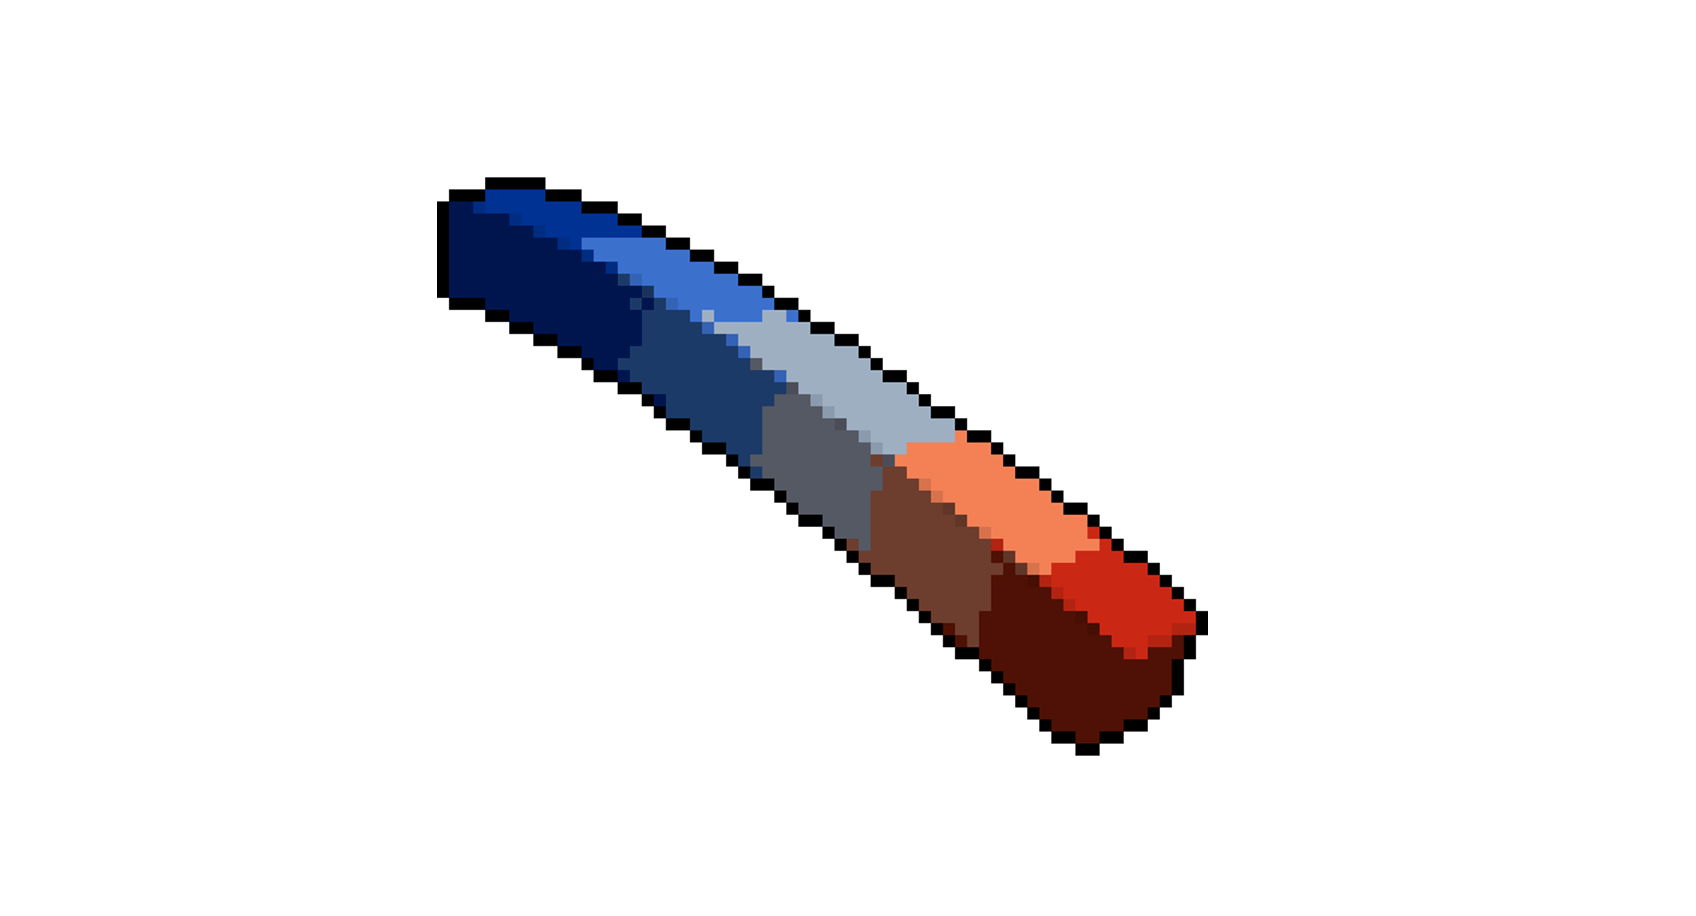
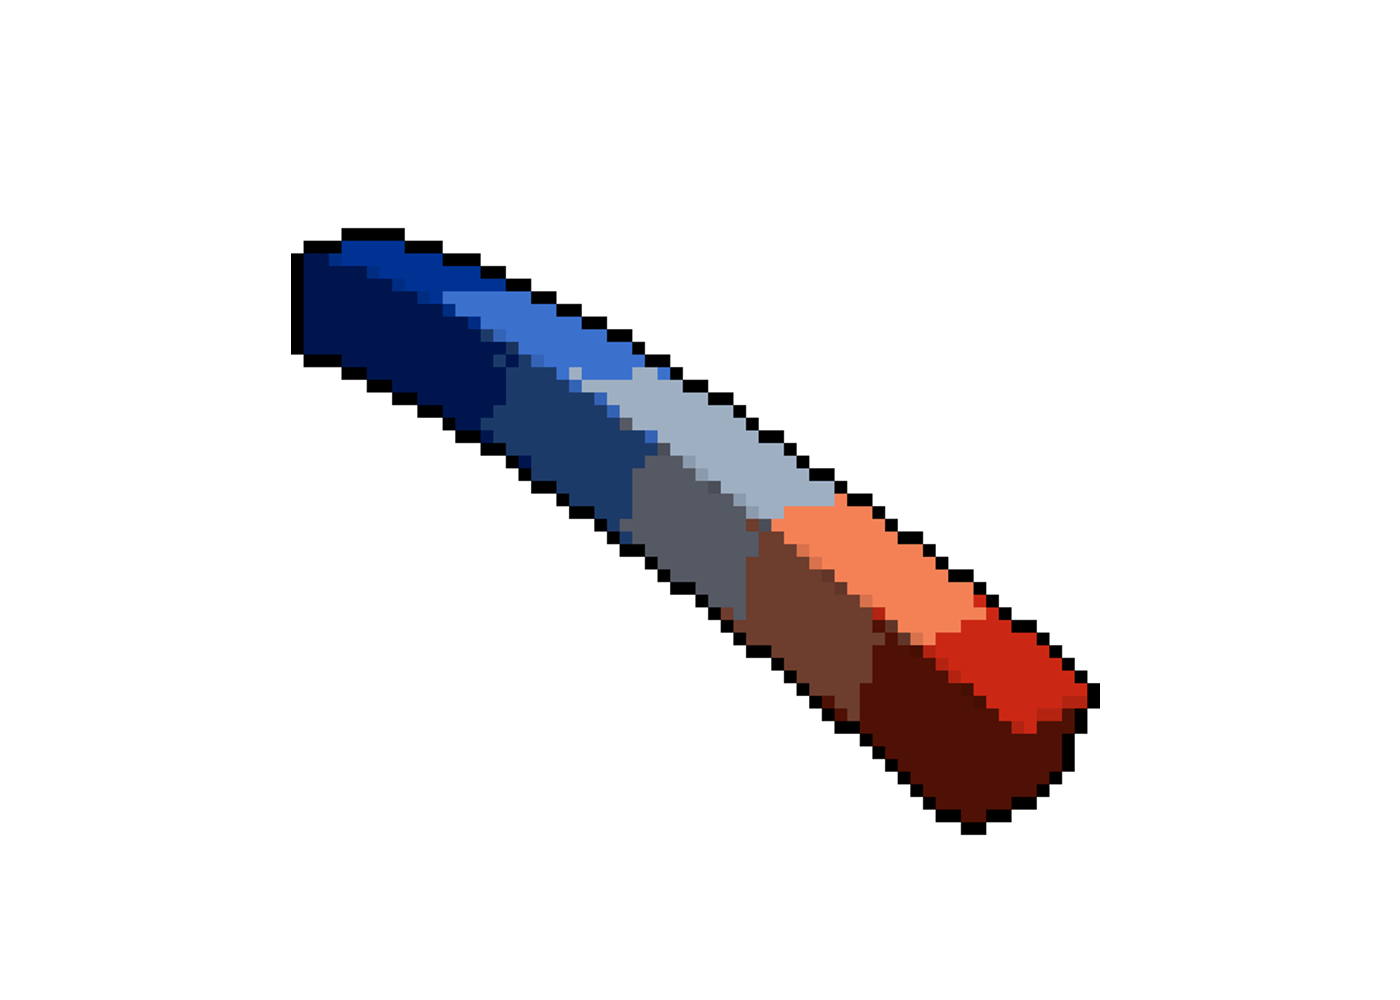
update proj

Changed region(s): [[0.1843, 0.1834, 0.7986, 0.8559]]

diff --git a/_projects/femat.md b/_projects/femat.md
@@ -1,7 +1,7 @@
 ---
 layout: page
 title: FEMAT
-description: Finite Element Analysis in MATLAB with Python interface.s
+description: Finite Element Analysis in MATLAB with Python interface.
 category: software
 img: /assets/img/femat.png
 importance: 1